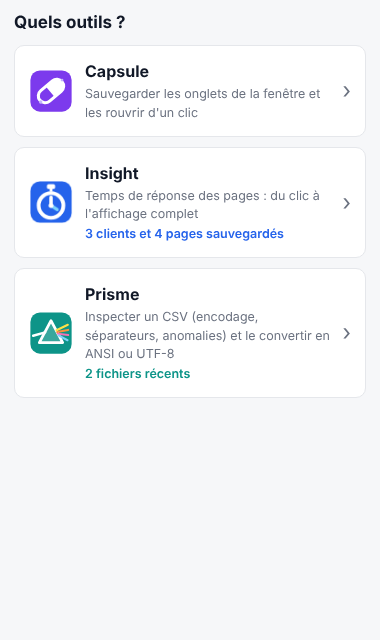
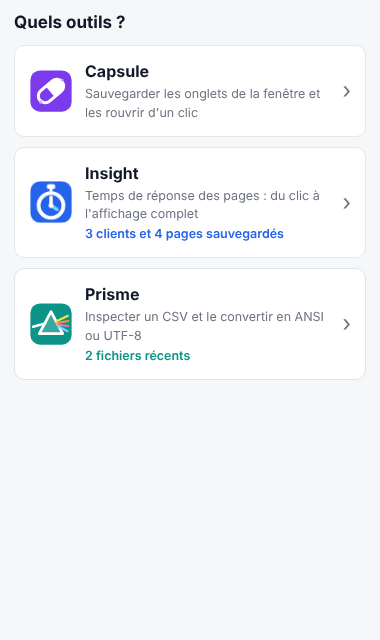
Accueil : description de Prisme sur 2 lignes
« Inspecter un CSV et le convertir en ANSI ou UTF-8 » : la carte Prisme de
« Quels outils ? » tient sur 2 lignes, comme Capsule et Insight.

Claude-Session: https://claude.ai/code/session_01XFxuiKgiepPHVpmAe4mHXJ

Changed region(s): [[0.2026, 0.4688, 0.8684, 0.5938], [0.0579, 0.4688, 0.2026, 0.5625], [0.8974, 0.5, 0.9263, 0.5312]]

diff --git a/extension/panel/home.html b/extension/panel/home.html
@@ -36,7 +36,7 @@
         <img src="../icons/prisme.svg" alt="" width="44" height="44" />
         <span class="tool-text">
           <strong>Prisme</strong>
-          <small>Inspecter un CSV (encodage, séparateurs, anomalies) et le convertir en ANSI ou UTF-8</small>
+          <small>Inspecter un CSV et le convertir en ANSI ou UTF-8</small>
           <small id="prismeCount" class="tool-count prisme"></small>
         </span>
         <span class="chev" aria-hidden="true">›</span>
